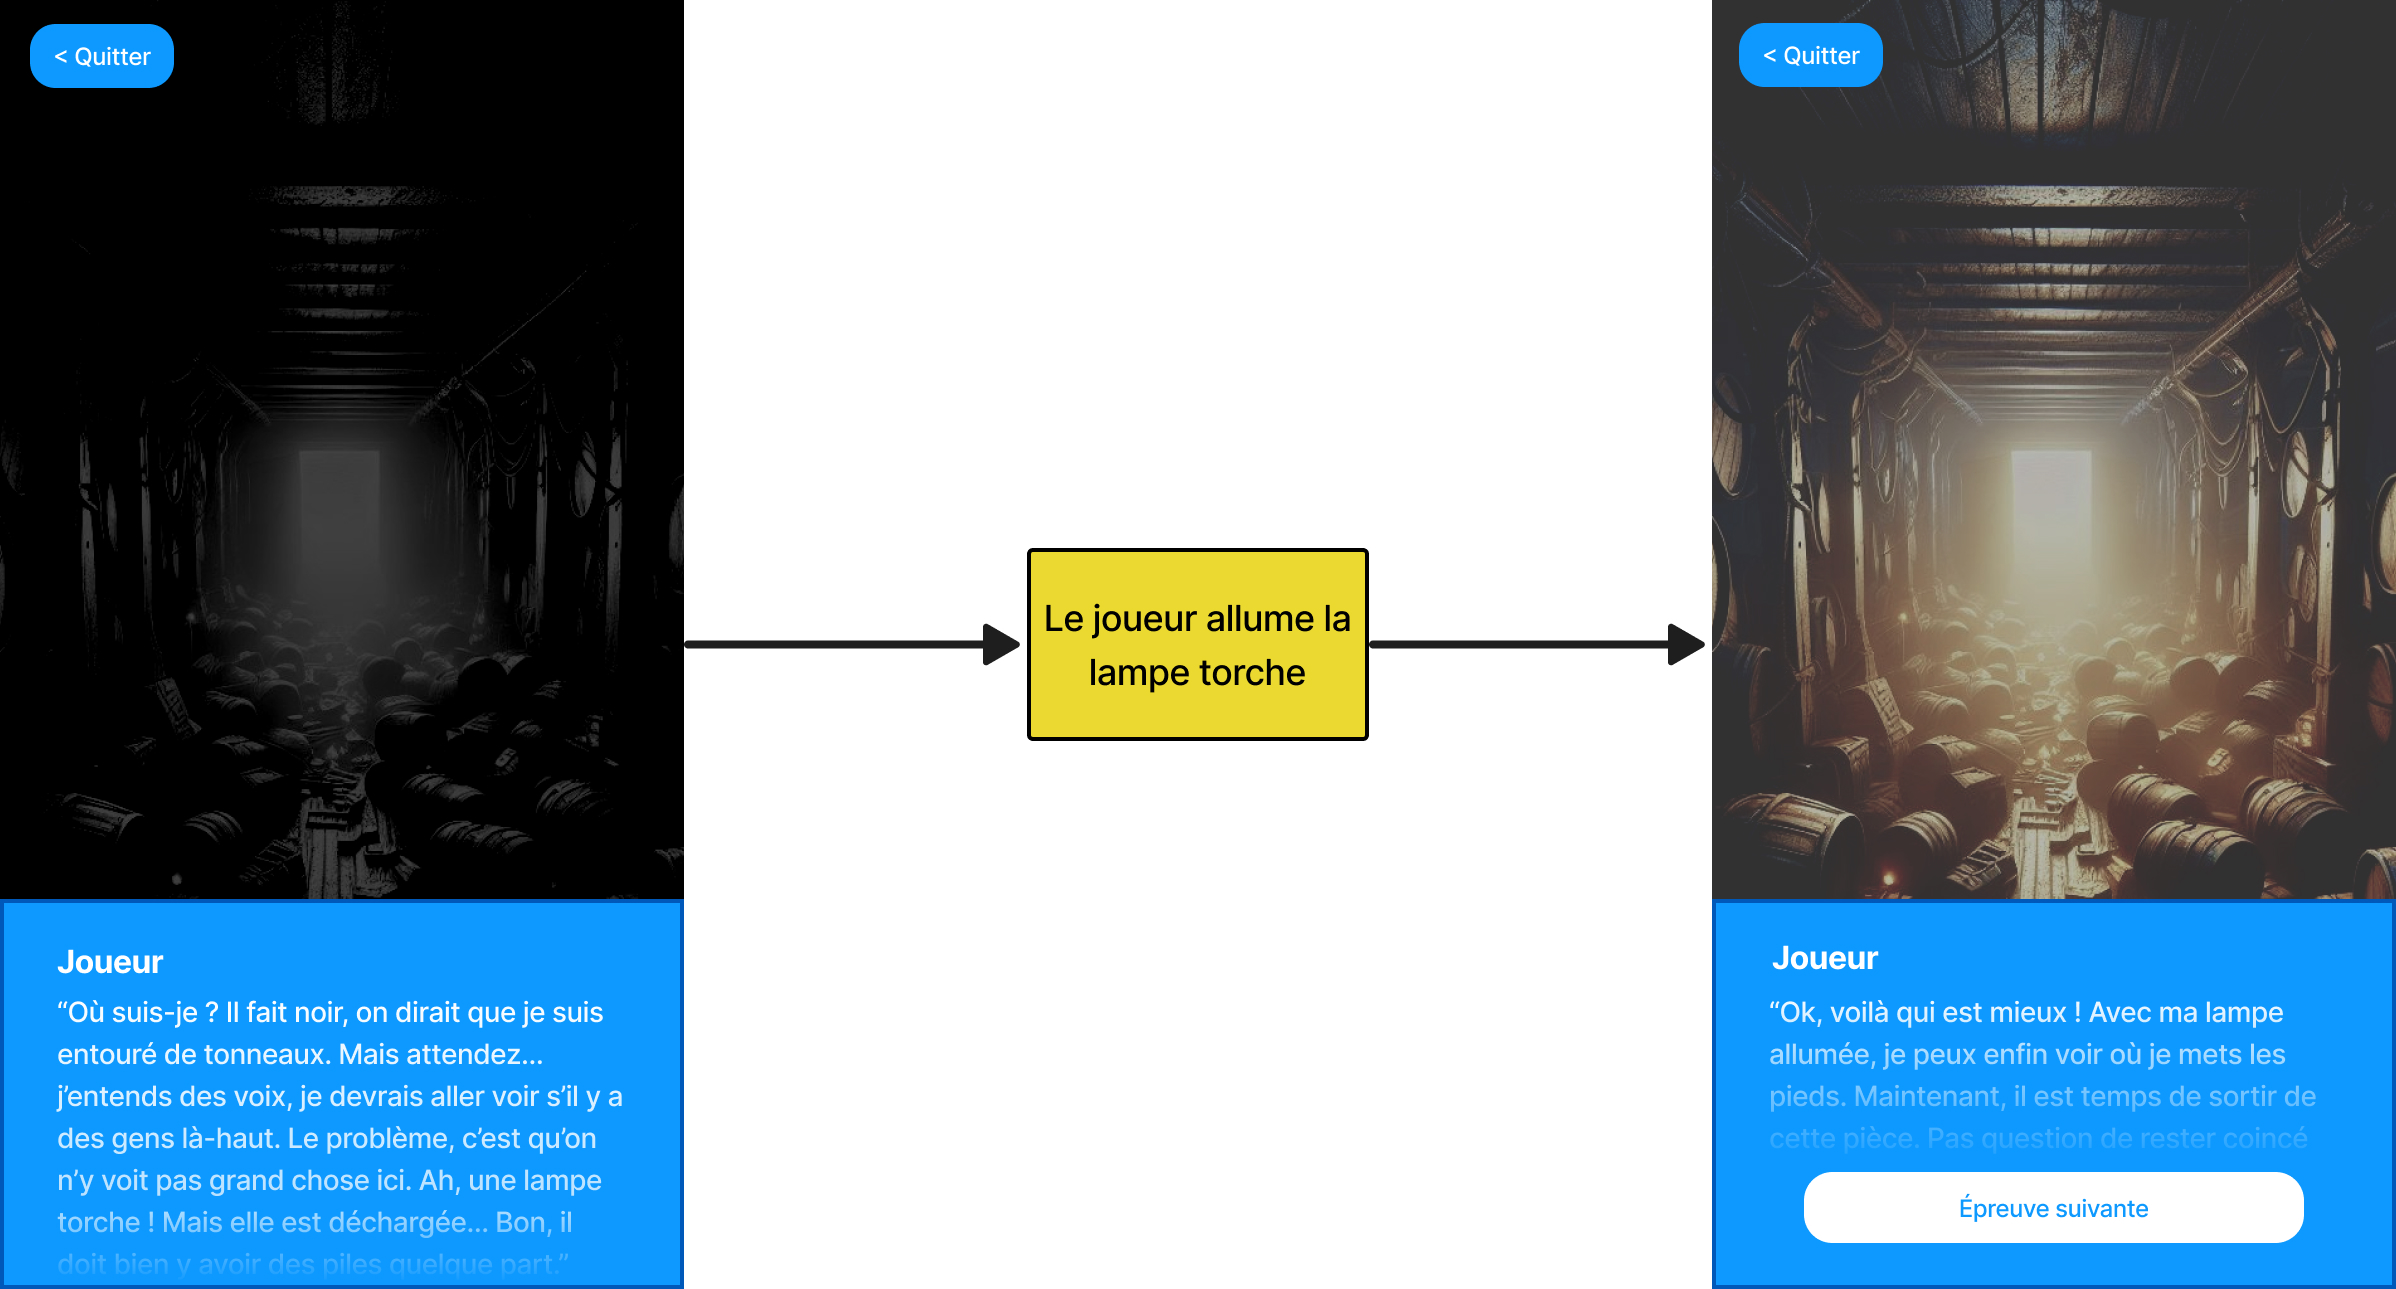
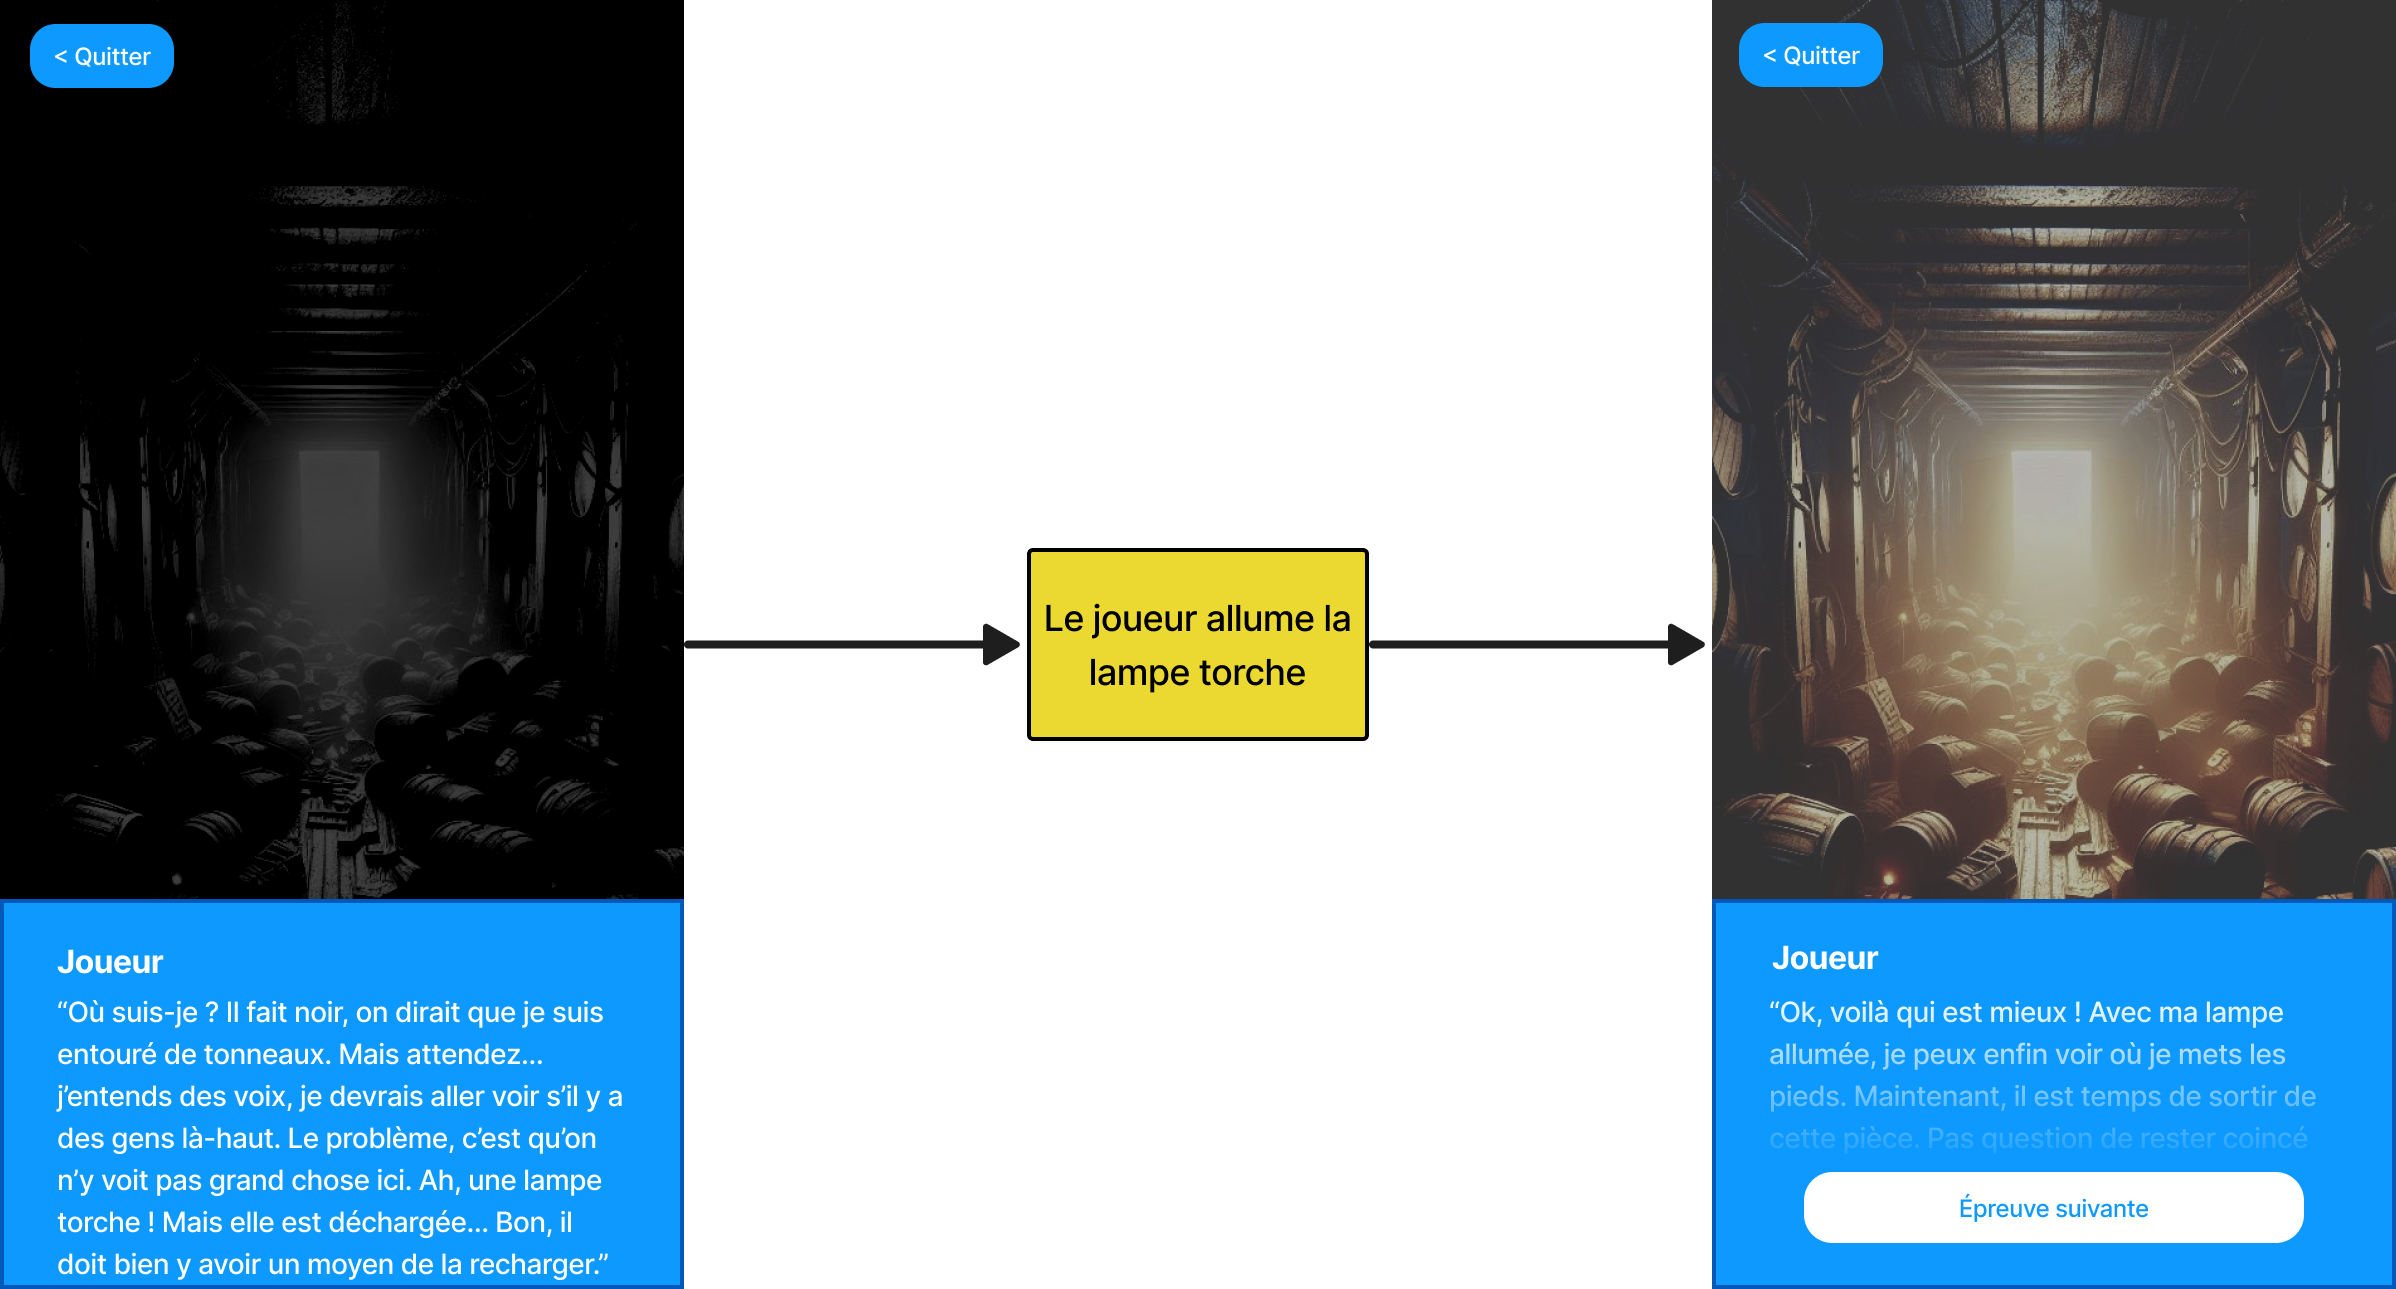
adapt speechs after users feedback

Changed region(s): [[0.0309, 0.8379, 0.2471, 0.993]]

diff --git a/escape-game/src/screens/piratesdelilebourbon/SecondStep.tsx b/escape-game/src/screens/piratesdelilebourbon/SecondStep.tsx
@@ -25,7 +25,7 @@ const data = {
         texts: [
             "Bienvenue à bord, moussaillon ! Je suis connu dans ces mers comme 'La Buse', un nom qui fait trembler nos ennemis et inspire le respect chez nos alliés. Mais ici, sur ce pont, vous pouvez simplement m'appeler 'Capitaine'.",
             "Nous avons besoin de toutes les mains disponibles pour cette attaque. Préparez-vous à l'action, car nous n'avons pas de temps à perdre. Les voiles sont gonflées par le vent et le Nossa Senhora do Cabo est à notre portée. Il est temps de montrer de quel bois nous nous chauffons !",
-            "Prenez cette baguette et tassez d'un mouvement horizontal la poudre de ce canon. Nous avons besoin de chaque canon prêt à cracher le feu lorsque nous atteindrons le Nossa Senhora do Cabo.",
+            "Prenez cet outil et tassez d'un mouvement horizontal la poudre de ce canon. Nous avons besoin de chaque canon prêt à cracher le feu lorsque nous atteindrons le Nossa Senhora do Cabo.",
         ],
     },
     after: {

diff --git a/escape-game/src/screens/piratesdelilebourbon/FirstStep.tsx b/escape-game/src/screens/piratesdelilebourbon/FirstStep.tsx
@@ -16,7 +16,7 @@ const data = {
     notAccessedImage: require('assets/images/piratesdelilebourbon/boat.jpg'),
     before: {
         image: require("assets/images/piratesdelilebourbon/dark-ships-hold.png"),
-        text: "Où suis-je ? Il fait noir, on dirait que je suis entouré de tonneaux. Mais attendez… j’entends des voix, je devrais aller voir s’il y a des gens là-haut. Le problème, c’est qu’on n’y voit pas grand chose ici. Ah, une lampe torche ! Mais elle est déchargée... Bon, il doit bien y avoir des piles quelque part."
+        text: "Où suis-je ? Il fait noir, on dirait que je suis entouré de tonneaux. Mais attendez… j’entends des voix, je devrais aller voir s’il y a des gens là-haut. Le problème, c’est qu’on n’y voit pas grand chose ici. Ah, une lampe torche ! Mais elle est déchargée... Bon, il doit bien y avoir un moyen de la recharger."
     },
     after: {
         image: require("assets/images/piratesdelilebourbon/light-ships-hold.png"),

diff --git a/docs/chapters/00-presentation.md b/docs/chapters/00-presentation.md
@@ -1,3 +1,14 @@
+# Informations générales
+Groupe 6
+
+Membres du groupe :
+- BOLLE Emilien
+- PIRE Victor
+
+Liens utiles :
+- Gitlab : https://gitlab.com/DTM-Henallux/MASI/etudiants/bolle-emilien/mobile-escape-game
+- Figma : https://www.figma.com/file/qRPFIBP1ofHVQL4dNBUzLs/Escape-Game-mockups
+
 # Présentation
 Cette application, conçue par Escape Museum, a été spécialement développée pour accompagner l'exposition temporaire "Pirates de l'île Bourbon" dans un musée. En tant que jeu d'évasion novateur, il exploite les capteurs du téléphone pour offrir une expérience immersive unique où les visiteurs doivent résoudre une série d'énigmes pour progresser.
 
